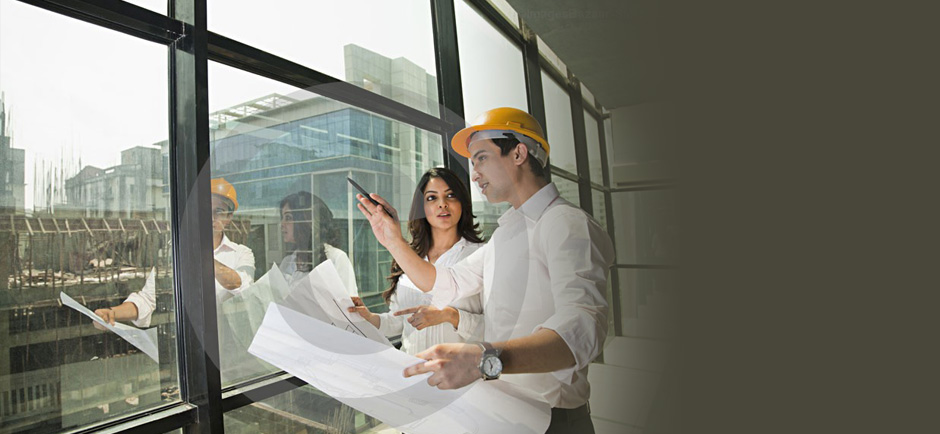
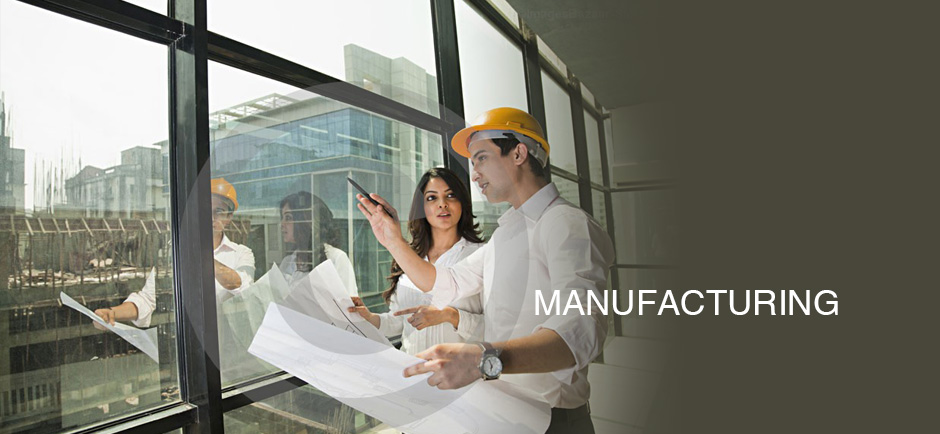
replaced slider images

Changed region(s): [[0.5553, 0.659, 0.8947, 0.7488]]

diff --git a/index.html b/index.html
@@ -125,9 +125,9 @@
 
 				    <ul class="subNavList clearfix currentJobAjax">
 						<li id="currentJob1"><a href="javascript:void(0);" name="ajax/currentJob-openings.html">Current Job Openings</a> <span></span></li>
-						<li id="currentJob2"><a href="javascript:void(0);">Job Location</a> <span></span></li>						
-						<li id="currentJob3"><a href="javascript:void(0);">Company Profile</a> <span></span></li>
-						<li id="currentJob4"><a href="javascript:void(0);">Contact Details</a></li>
+						<li id="currentJob2"><a href="javascript:void(0);" name="ajax/currentJob-job-location.html">Job Location</a> <span></span></li>						
+						<li id="currentJob3"><a href="javascript:void(0);" name="ajax/currentJob-company-profile.html">Company Profile</a><span></span></li>
+						<li id="currentJob4"><a href="javascript:void(0);" name="ajax/currentJob-contact-details.html">Contact Details</a></li>
 				    </ul>
 			    </div>	<!-- subNavWrap -->
 
@@ -189,7 +189,7 @@
 
 
 							<li>
-								<a href="javascript:void(0);">
+								<a href="javascript:void(0);" name="ajax/currentJob-testimonials.html">
 									<img src="images/Testimonials.jpg" alt="Testimonials.jpg">
 									<span>Testimonials</span>
 								</a>
@@ -205,20 +205,20 @@
 		<div class="footerWrap">
 			<div class="container">
 				<ul>
-					<li><a href="javascript:void(0);">Home</a></li>
-					<li><a href="javascript:void(0);">About Us</a></li>
-					<li><a href="javascript:void(0);">Services</a></li>
+					<li id="homeFt"><a href="javascript:void(0);">Home</a></li>
+					<li id="aboutUsFt"><a href="javascript:void(0);" name="ajax/aboutUs-company.html">About Us</a></li>
+					<li id="servicesFt"><a href="javascript:void(0);" name="ajax/services-executive-search.html">Services</a></li>
 				</ul>
 
 				<ul>
-					<li><a href="javascript:void(0);">Industry Segments</a></li>
-					<li><a href="javascript:void(0);">Contact Us</a></li>
+					<li id="industryFt"><a href="javascript:void(0);" name="ajax/industry-segments-we-cater.html">Industry Segments</a></li>
+					<li id="contactUsFt"><a href="javascript:void(0);" name="ajax/contactUs.html">Contact Us</a></li>
 				</ul>
 
 				<p>
 					1st Floor, Sahajanand Complex, Next to 1000 Oaks <br/>Restarurant, 2416 East Street, Camp, Pune - 411 001
-					<br/>Tel: 66011512 / 3, Email : rajeev@fortuneps.com
-					<br/>www.fortuneexecativesearch.com
+					<br/>Tel: 66011512 / 3, Email : <a href="mailto:rajeev@fortuneps.com" class="email">rajeev@fortuneps.com</a>
+					<br/><a href="www.fortuneexecativesearch.com" class="website">www.fortuneexecativesearch.com</a>
 				</p>
 			</div><!-- container -->
 		</div><!-- footerWrap -->

diff --git a/js/ajax_script.js b/js/ajax_script.js
@@ -9,24 +9,26 @@ $(document).ready(function(){
 
 		var idName = $(this).attr('id');
 		if(idName == "home"){
+			$(".subNavWrap ul").css("display","none");
 			$("#home").addClass("active");	
 		}
-		if(idName == "aboutUs"){
+		if((idName == "aboutUs") || (idName == "aboutUsFt")){
 			$("#aboutUs").addClass("active");
 			$(".subNavWrap ul").css("display","none");
 			$(".aboutUsAjax").css("display","block");
 		}
-		if(idName == "services"){
+		if((idName == "services") || (idName == "servicesFt")){
 			$("#services").addClass("active");
 			$(".subNavWrap ul").css("display","none");
 			$(".servicesAjax").css("display","block");
 		}
-		if(idName == "industry"){
+		if((idName == "industry") || (idName == "industryFt")){
 			$("#industry").addClass("active");
 			$(".subNavWrap ul").css("display","none");
 			$(".industryAjax").css("display","block");
 		}
 		if(idName == "contactUs"){
+			$(".subNavWrap ul").css("display","none");
 			$("#contactUs").addClass("active");	
 		}
 

diff --git a/ajax/currentJob-company-profile.html b/ajax/currentJob-company-profile.html
@@ -1,0 +1,24 @@
+<div>
+	<h1 class="animated de2ms fadeInDown">Company <span class="redText">Profile</span> </h1>
+	
+	<ul class="requiredWrap animated de1s fadeInRight">
+		<li>
+			<label>Company Name</label>
+			<span>:</span>
+			<label>mars consultancy</label>
+		</li>
+
+		<li>
+			<label>Company Website</label>
+			<span>:</span>
+			<label><a href="www.marsconsultancy.co.in" class="website">www.marsconsultancy.co.in</a></label>
+		</li>
+
+		<li>
+			<label>About Company</label>
+			<span>:</span>
+			<label>This Company is a Private limited company, incorporated in 2007 and is one of the leading complete Roofing Solutions Provider in India. We have an In-house capabilities of giving end to end solution to our customers as far as Roofing , Structurem Compositedecking system and other allied Building materials Design, Supply of Material and with inhouse trained Installation team we give a complete solution to our customers.</label>
+		</li>
+	</ul>
+	
+</div>

diff --git a/ajax/contactUs.html b/ajax/contactUs.html
@@ -8,10 +8,10 @@
 			2416 East Street, Camp, Pune 411001.<br/> 
 			Tel.: 020 66011512 / 13<br/>
 			Rajeev Sanghavi  (M)  98230 57212<br/>
-			Email: rajeev@fortuneps.com<br/>
+			Email: <a href="mailto:rajeev@fortuneps.com" class="email">rajeev@fortuneps.com</a><br/>
 		</p>
 
-		<a href="www.fortunexecutivesearch.com" class="animated de8ms fadeInDown">www.fortunexecutivesearch.com</a>
+		<a href="www.fortunexecutivesearch.com" class="website animated de8ms fadeInDown">www.fortunexecutivesearch.com</a>
 	</div>
 
 	<div class="mapHeading animated de14ms fadeIn"><h4 class="animated de18ms fadeInLeft">Location Map</h4><div class="mapBG"></div></div>

diff --git a/css/home_style.css b/css/home_style.css
@@ -463,7 +463,10 @@ background: url("../images/industry_bg.png") repeat-y;
 	width: 340px;
 
 }
-.cuSection .contactDetails a {
+.cuSection .contactDetails .email {
+	color: #666666;
+}
+.cuSection .contactDetails .website {
 	color: #000;
 	font-size: 16px;
 	font-weight: bold;
@@ -492,6 +495,16 @@ background: url("../images/industry_bg.png") repeat-y;
 	height: 266px;
 	background-color: #cccccc;
 	/*border: 2px solid #000;*/
+}
+.website,
+.email {
+	color: #666666;
+	font-weight: bold;
+}
+.website:hover,
+.email:hover {
+	color: #555555;
+	font-weight: bold;
 }
 
 /* Start Slider code */

diff --git a/ajax/currentJob-job-location.html b/ajax/currentJob-job-location.html
@@ -1,0 +1,24 @@
+<div>
+	<h1 class="animated de2ms fadeInDown">Job <span class="redText">Location</span> </h1>
+	
+	<ul class="requiredWrap animated de1s fadeInRight">
+		<li>
+			<label>Job Country</label>
+			<span>:</span>
+			<label>India</label>
+		</li>
+
+		<li>
+			<label>Job State / U.T.</label>
+			<span>:</span>
+			<label>Goa</label>
+		</li>
+
+		<li>
+			<label>Job City</label>
+			<span>:</span>
+			<label>Benaulim, Betul-Goa, Calapor, Carapur, Chikhli(Goa),	Colva, Cuchoram, Goa Velha, Ponda, Dona Paula</label>
+		</li>
+	</ul>
+	
+</div>

diff --git a/ajax/currentJob-contact-details.html b/ajax/currentJob-contact-details.html
@@ -1,0 +1,24 @@
+<div>
+	<h1 class="animated de2ms fadeInDown">Contact <span class="redText">Details</span> </h1>
+	
+	<ul class="requiredWrap animated de1s fadeInRight">
+		<li>
+			<label>Contact Person</label>
+			<span>:</span>
+			<label>Pranita</label>
+		</li>
+
+		<li>
+			<label>Mobile</label>
+			<span>:</span>
+			<label>9325694949</label>
+		</li>
+
+		<li>
+			<label>Email ID</label>
+			<span>:</span>
+			<label><a href="mailto:marsconsultancy1@gmail.com" class="email">marsconsultancy1@gmail.com</a></label>
+		</li>
+	</ul>
+	
+</div>

diff --git a/ajax/currentJob-testimonials.html b/ajax/currentJob-testimonials.html
@@ -1,0 +1,4 @@
+<div>
+	<h1 class="animated de2ms fadeInDown">Testimonials</h1>
+	
+</div>
